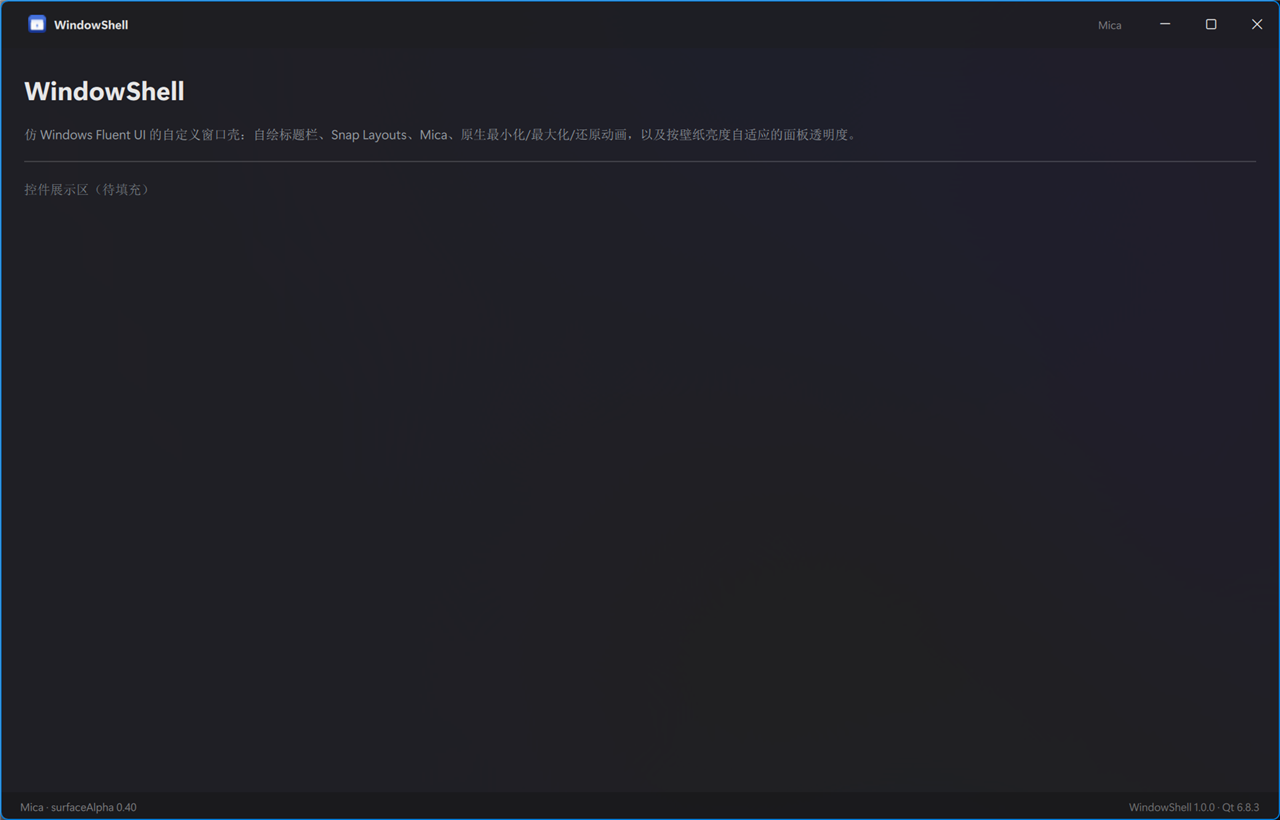
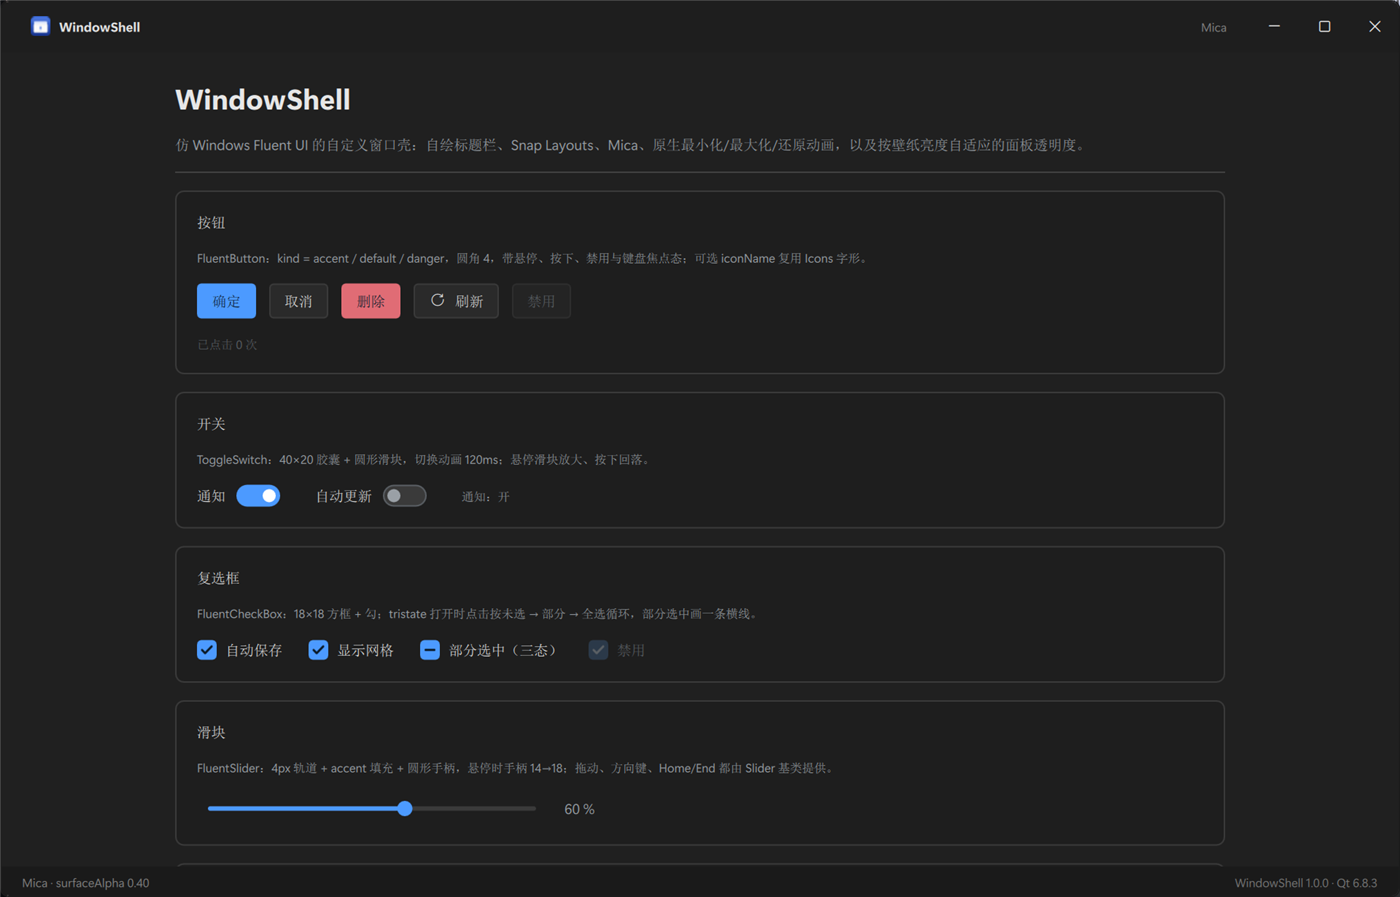
feat: 加入 Fluent 控件库与展示页
- components/fluent/ 10 个自绘控件（按钮 / 开关 / 复选框 / 滑块 / 进度条 / 输入框 / 下拉框 / 信息条 / 卡片 / 标签条）
- pages/ControlsPage.qml 分组展示，控件全部可交互
- Icons.qml 补 info / success / warning / error / question 码位，InfoBar 徽标改用字体图标
- CMake 设 QTP0004 NEW，消除 components/fluent、pages 子目录缺 qmldir 的警告
- README 补控件清单，更新模板截图

diff --git a/Qt/WindowShell/components/fluent/FluentCheckBox.qml b/Qt/WindowShell/components/fluent/FluentCheckBox.qml
@@ -3,26 +3,36 @@ import QtQuick.Controls
 
 /// Fluent 复选框：18×18 方框 + 勾，支持部分选中（三态）。
 ///
-/// 为什么继承 AbstractButton 而不是 CheckBox：CheckBox 的样式把 indicator、
-/// 背景和 focus 框都绑在样式配置上，覆写要跟一整套 config 打交道；这里只要一个
-/// 方框、一个勾和一行文字，AbstractButton 的 checkable / tristate / checkState
-/// 已经覆盖全部交互语义，代码反而更短、更可控。
+/// 为什么继承 CheckBox 而不是 AbstractButton：checkState / tristate 是
+/// CheckBox 才有的属性（AbstractButton 只有 checkable/checked），而且
+/// "未选 → 部分 → 全选"的点击循环、键盘空格、无障碍 role 都由基类维护。
+/// 自己拿 AbstractButton 复刻这套状态机，等于把 Qt 已经写对的东西再写一遍。
 ///
-/// 部分选中直接复用 Qt 的 checkState：tristate: true 时点击会按
-/// Unchecked → PartiallyChecked → Checked 循环，不需要自己造一个 bool。
-/// 勾用 Canvas 画而不是字体字符：不依赖系统字体是否带 ✓，缩放下也不发虚。
+/// 为什么 indicator 自己画：样式层的 indicator 是位图/StyleImage，颜色和
+/// 尺寸都绑在 Config 上；这里只需要 18×18 方框 + 描边 + Canvas 勾，
+/// 用 Rectangle + Canvas 能把 4px 圆角、hover 底色、focus 边框都控制住。
+///
+/// 勾用 Canvas 画而不是字体字符：不依赖系统字体是否带 ✓，缩放时也不发虚。
 ///
 /// 约束：方框尺寸固定在 18×18（Fluent 规格），只开放文字与状态。
-AbstractButton {
+CheckBox {
     id: control
 
     /// 屏幕阅读器文本；未设置时退回可见文字。
     property string accessibleLabel: ""
 
-    checkable: true
     hoverEnabled: true
+    spacing: 8
     padding: 0
-    implicitWidth: contentArea.implicitWidth
+    leftPadding: 0
+    rightPadding: 0
+    topPadding: 0
+    bottomPadding: 0
+    topInset: 0
+    bottomInset: 0
+    leftInset: 0
+    rightInset: 0
+    implicitWidth: Math.max(20, contentLabel.implicitWidth)
     implicitHeight: 20
 
     /// 部分选中是 Qt 三态的一部分，单独暴露只读别名方便外部做条件渲染。
@@ -34,89 +44,81 @@ AbstractButton {
     /// 勾/横线的颜色压在 accent 填充上：与按钮同理，深色比白色对比度更高。
     readonly property color markColor: control.enabled ? "#0b1b2a" : "#5a5f64"
 
-    contentItem: Item {
-        id: contentArea
-        implicitWidth: contentRow.implicitWidth
-        implicitHeight: 20
+    indicator: Item {
+        id: boxSlot
+        implicitWidth: 18
+        implicitHeight: 18
+        x: control.leftPadding
+        y: control.topPadding + (control.availableHeight - height) / 2
 
-        Row {
-            id: contentRow
-            anchors.verticalCenter: parent.verticalCenter
-            spacing: 8
-
-            Item {
-                id: boxSlot
-                width: 18
-                height: 18
-                anchors.verticalCenter: parent.verticalCenter
-
-                Rectangle {
-                    id: box
-                    anchors.fill: parent
-                    radius: 4
-                    color: {
-                        if (!control.enabled) {
-                            return control.checked ? "#2b3949" : "transparent"
-                        }
-                        if (control.checked || control.partiallyChecked) {
-                            return control.down ? "#3d87e0" : (control.hovered ? "#63a8ff" : "#4c9aff")
-                        }
-                        return control.down ? "#242424" : (control.hovered ? "#2a2a2a" : "transparent")
-                    }
-                    border.width: control.visualFocus && control.enabled ? 2 : 1
-                    border.color: {
-                        if (control.visualFocus && control.enabled) {
-                            return "#8ec0ff"
-                        }
-                        if (control.checked || control.partiallyChecked) {
-                            return "transparent"
-                        }
-                        return control.enabled ? "#5a5f64" : "#3a3a3a"
-                    }
-
-                    Behavior on color {
-                        ColorAnimation { duration: 90 }
-                    }
+        Rectangle {
+            id: box
+            anchors.fill: parent
+            radius: 4
+            color: {
+                if (!control.enabled) {
+                    return control.checked ? "#2b3949" : "transparent"
                 }
-
-                Canvas {
-                    id: mark
-                    anchors.fill: parent
-                    visible: control.checked || control.partiallyChecked
-                    property int markState: control.checkState
-                    onMarkStateChanged: requestPaint()
-                    onVisibleChanged: requestPaint()
-                    onEnabledChanged: requestPaint()
-                    Component.onCompleted: requestPaint()
-
-                    onPaint: {
-                        var ctx = getContext("2d")
-                        ctx.reset()
-                        ctx.strokeStyle = control.markColor
-                        ctx.lineWidth = 2
-                        ctx.lineCap = "round"
-                        ctx.lineJoin = "round"
-                        ctx.beginPath()
-                        if (control.checkState === Qt.PartiallyChecked) {
-                            ctx.moveTo(5, 9)
-                            ctx.lineTo(13, 9)
-                        } else {
-                            ctx.moveTo(4.6, 9.1)
-                            ctx.lineTo(7.4, 12)
-                            ctx.lineTo(13.4, 5.8)
-                        }
-                        ctx.stroke()
-                    }
+                if (control.checked || control.partiallyChecked) {
+                    return control.down ? "#3d87e0" : (control.hovered ? "#63a8ff" : "#4c9aff")
                 }
+                return control.down ? "#242424" : (control.hovered ? "#2a2a2a" : "transparent")
+            }
+            border.width: control.visualFocus && control.enabled ? 2 : 1
+            border.color: {
+                if (control.visualFocus && control.enabled) {
+                    return "#8ec0ff"
+                }
+                if (control.checked || control.partiallyChecked) {
+                    return "transparent"
+                }
+                return control.enabled ? "#5a5f64" : "#3a3a3a"
             }
 
-            Label {
-                anchors.verticalCenter: parent.verticalCenter
-                visible: control.text.length > 0
-                text: control.text
-                font.pixelSize: 13
-                color: control.enabled ? "#e6e6e6" : "#5a5f64"
+            Behavior on color {
+                ColorAnimation { duration: 90 }
             }
         }
+
+        Canvas {
+            id: mark
+            anchors.fill: parent
+            visible: control.checked || control.partiallyChecked
+            property int markState: control.checkState
+            onMarkStateChanged: requestPaint()
+            onVisibleChanged: requestPaint()
+            onEnabledChanged: requestPaint()
+            Component.onCompleted: requestPaint()
+
+            onPaint: {
+                var ctx = getContext("2d")
+                ctx.reset()
+                ctx.strokeStyle = control.markColor
+                ctx.lineWidth = 2
+                ctx.lineCap = "round"
+                ctx.lineJoin = "round"
+                ctx.beginPath()
+                if (control.checkState === Qt.PartiallyChecked) {
+                    ctx.moveTo(5, 9)
+                    ctx.lineTo(13, 9)
+                } else {
+                    ctx.moveTo(4.6, 9.1)
+                    ctx.lineTo(7.4, 12)
+                    ctx.lineTo(13.4, 5.8)
+                }
+                ctx.stroke()
+            }
+        }
+    }
+
+    contentItem: Label {
+        id: contentLabel
+        leftPadding: control.indicator ? control.indicator.width + control.spacing : 0
+        rightPadding: 0
+        text: control.text
+        font.pixelSize: 13
+        color: control.enabled ? "#e6e6e6" : "#5a5f64"
+        verticalAlignment: Text.AlignVCenter
+        elide: Text.ElideRight
     }
 }

diff --git a/Qt/WindowShell/components/fluent/InfoBar.qml b/Qt/WindowShell/components/fluent/InfoBar.qml
@@ -5,10 +5,9 @@ import WindowShell
 
 /// Fluent 信息条：severity 决定颜色与左侧符号，标题/正文 wrap，右侧可关闭。
 ///
-/// 为什么左侧用字符徽标而不是 Icons：Icons.qml 只登记了导航/文件语义的名字，
-/// 没有 info / success / warning / error。按约束"不存在就用纯文字或几何图形"，
-/// 这里用带色底的圆形字符（i / ✓ / ! / ×），不编造不存在的图标名。
-/// 关闭按钮则使用已登记的 dismiss，直接复用现有 IconButton。
+/// 左侧徽标用 Icons 的状态图标：info / success / warning / error 已登记在
+/// components/Icons.qml（码位取自上游 ic_fluent_info / checkmark_circle / warning /
+/// error_circle）。关闭按钮复用 IconButton + dismiss。
 ///
 /// 为什么 open 放在组件内部管理：关闭按钮必须能立即收起；调用方只需要在
 /// 需要重新展示时把 open 设回 true，不必自己维护"已关闭"集合。
@@ -55,17 +54,22 @@ Rectangle {
         }
     }
 
-    readonly property string severityGlyph: {
+    /// 语义图标名（对应 Icons.qml 的 map）；未知 severity 一律按 info 处理。
+    readonly property string severityIcon: {
         switch (bar.severity) {
         case "success":
-            return "✓"
+            return "success"
         case "warning":
-            return "!"
+            return "warning"
         case "error":
-            return "×"
+            return "error"
         default:
-            return "i"
+            return "info"
         }
+    }
+
+    Icons {
+        id: icons
     }
 
     implicitWidth: 520
@@ -91,10 +95,10 @@ Rectangle {
 
             Label {
                 anchors.centerIn: parent
-                text: bar.severityGlyph
+                text: icons.glyph(bar.severityIcon)
+                font.family: icons.fontFamily
                 color: bar.severityColor
-                font.pixelSize: 12
-                font.bold: true
+                font.pixelSize: 14
             }
         }
 

diff --git a/Qt/WindowShell/components/Icons.qml b/Qt/WindowShell/components/Icons.qml
@@ -63,6 +63,13 @@ QtObject {
         "folder":        [0xE8EB, 0xE8EA],
         "document":      [0xE6E9, 0xE6E8],
         "sync":          [0xE171, 0xE170],
+        // 状态类图标：InfoBar 的四种 severity 全靠它们，补进表里以免各控件自己拼字符。
+        // 码位来自上游 ic_fluent_info / checkmark_circle / warning / error_circle / question_circle。
+        "info":          [0xEA88, 0xEA87],
+        "success":       [0xE462, 0xE461],
+        "warning":       [0xF561, 0xF560],
+        "error":         [0xE877, 0xE876],
+        "question":      [0xEF07, 0xEF06],
         "apps":          [0xE07D, 0xE07C],
         // 自绘标题栏的窗口控制：Fluent 上游名分别是 subtract / square /
         // square_multiple / dismiss 的 _20_ 版本，这里是它们 20px 的 regular 与 filled 码位。

diff --git a/Qt/WindowShell/components/fluent/FluentButton.qml b/Qt/WindowShell/components/fluent/FluentButton.qml
@@ -37,8 +37,8 @@ AbstractButton {
     property int iconSize: 16
     /// 图标与文字间距。
     property int contentSpacing: 8
-    /// 水平内边距。
-    property int horizontalPadding: 14
+    /// 水平内边距（不能叫 horizontalPadding：那是 Control 的 FINAL 属性）。
+    property int sidePadding: 14
 
     readonly property bool accentKind: kind === "accent"
     readonly property bool dangerKind: kind === "danger"
@@ -78,8 +78,8 @@ AbstractButton {
     }
 
     hoverEnabled: true
-    leftPadding: control.horizontalPadding
-    rightPadding: control.horizontalPadding
+    leftPadding: control.sidePadding
+    rightPadding: control.sidePadding
     topPadding: 0
     bottomPadding: 0
     implicitWidth: contentArea.implicitWidth + leftPadding + rightPadding

diff --git a/Qt/WindowShell/pages/ControlsPage.qml b/Qt/WindowShell/pages/ControlsPage.qml
@@ -554,7 +554,7 @@ Flickable {
                 Layout.fillWidth: true
                 tabs: [qsTr("常规"), qsTr("外观"), qsTr("高级")]
                 currentIndex: page.tabIndex
-                onTabActivated: page.tabIndex = index
+                onTabActivated: function (index) { page.tabIndex = index }
             }
             Label {
                 text: qsTr("当前标签：%1").arg(tabBarDemo.tabs[tabBarDemo.currentIndex])

diff --git a/Qt/WindowShell/Main.qml b/Qt/WindowShell/Main.qml
@@ -191,6 +191,9 @@ ApplicationWindow {
 
         ControlsPage {
             width: scroll.availableWidth
+            // 卡片跟窗口壳用同一个面板色：Mica 模式下它是半透明的，卡片必须跟着变，
+            // 否则会出现"卡片不透明、周围透出壁纸"的割裂感。
+            surfaceColor: root.surfaceColor
         }
     }
 

diff --git a/Qt/WindowShell/README.md b/Qt/WindowShell/README.md
@@ -17,13 +17,15 @@
 | 窗口装饰 | DWM 圆角、阴影、激活态强调色边框，最大化时自动切直角并去掉边框 |
 | 关闭过渡 | 系统不给自绘窗口播关闭动画，QML 里 130ms 淡出后二次 close |
 | 图标 | Fluent System Icons（MIT）字体 + 语义名映射，见 `components/Icons.qml` |
+| 控件库 | `components/fluent/`：按钮 / 开关 / 复选框 / 滑块 / 进度条 / 输入框 / 下拉框 / 提示条 / 卡片 / 标签条，全部自绘 |
 
 ## 目录
 
 ```
 WindowShell/
 ├── Main.qml                 窗口壳（标题栏 / 内容 / 状态栏 / 关闭淡出）
-├── components/              自绘控件（CaptionButton / IconButton / Icons / AboutDialog ...）
+├── components/              窗口壳控件（CaptionButton / IconButton / Icons / AboutDialog）
+│   └── fluent/              Fluent 控件库（见下表）
 ├── pages/ControlsPage.qml   控件展示页
 ├── src/
 │   ├── main.cpp             入口：装壳、下发 Mica、注入 context 属性
@@ -50,6 +52,27 @@ cmake --build --preset debug
 
 - `--native-frame`：保留系统标题栏（对照用，排查窗口行为时非常有用）
 - `--no-mica`：关闭 Mica，窗口退回不透明
+
+## 控件库
+
+全部自绘（不依赖 Qt Quick Controls 的默认外观），启动后即是展示页：
+
+| 控件 | 文件 | 关键属性 |
+|---|---|---|
+| 按钮 | `fluent/FluentButton.qml` | `kind`（accent / default / danger）、`iconName`、`iconFilled`、`radius` |
+| 开关 | `fluent/ToggleSwitch.qml` | `checked`、`accessibleLabel`；40×20，切换 120ms |
+| 复选框 | `fluent/FluentCheckBox.qml` | `checked`、`tristate`、只读 `partiallyChecked` |
+| 滑块 | `fluent/FluentSlider.qml` | `from`、`to`、`value`、`stepSize`、`handleSize` |
+| 进度条 | `fluent/FluentProgressBar.qml` | `value`、`indeterminate`、`progressColor` |
+| 输入框 | `fluent/FluentTextField.qml` | `text`、`placeholderText`、`echoMode`、`readOnly` |
+| 下拉框 | `fluent/FluentComboBox.qml` | `model`、`textRole`、`currentIndex` |
+| 信息条 | `fluent/InfoBar.qml` | `severity`（info / success / warning / error）、`title`、`text`、`open`、`closable` |
+| 卡片 | `fluent/FluentCard.qml` | 默认属性即内容；`radius`、`color`、`padding`、`spacing` |
+| 标签条 | `fluent/FluentTabBar.qml` | `tabs`、`currentIndex`、`accentColor` |
+
+控件的颜色是写死的暗色 Fluent 值（accent `#4c9aff`、卡片 `#232323`、描边 `#3a3a3a`），
+页面底色由 `ControlsPage.surfaceColor` 决定——`Main.qml` 把窗口壳的 `surfaceColor` 传下去，
+Mica 模式下卡片会跟着面板一起半透明。
 
 ## 把这些搬进你自己的项目
 
